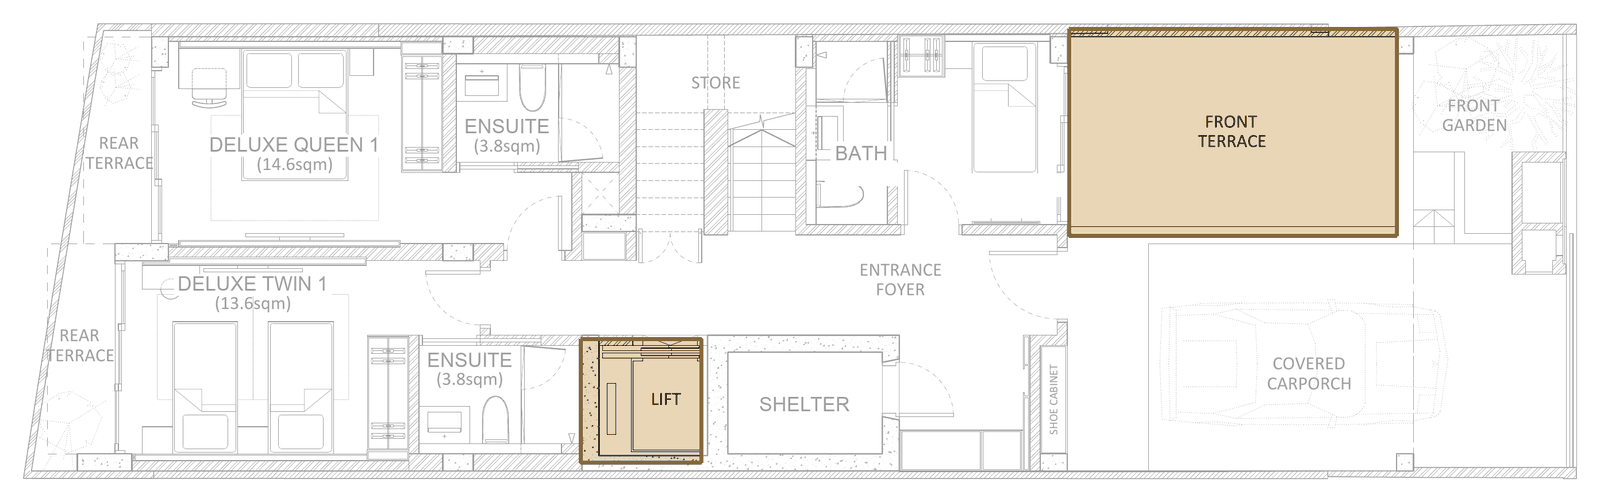
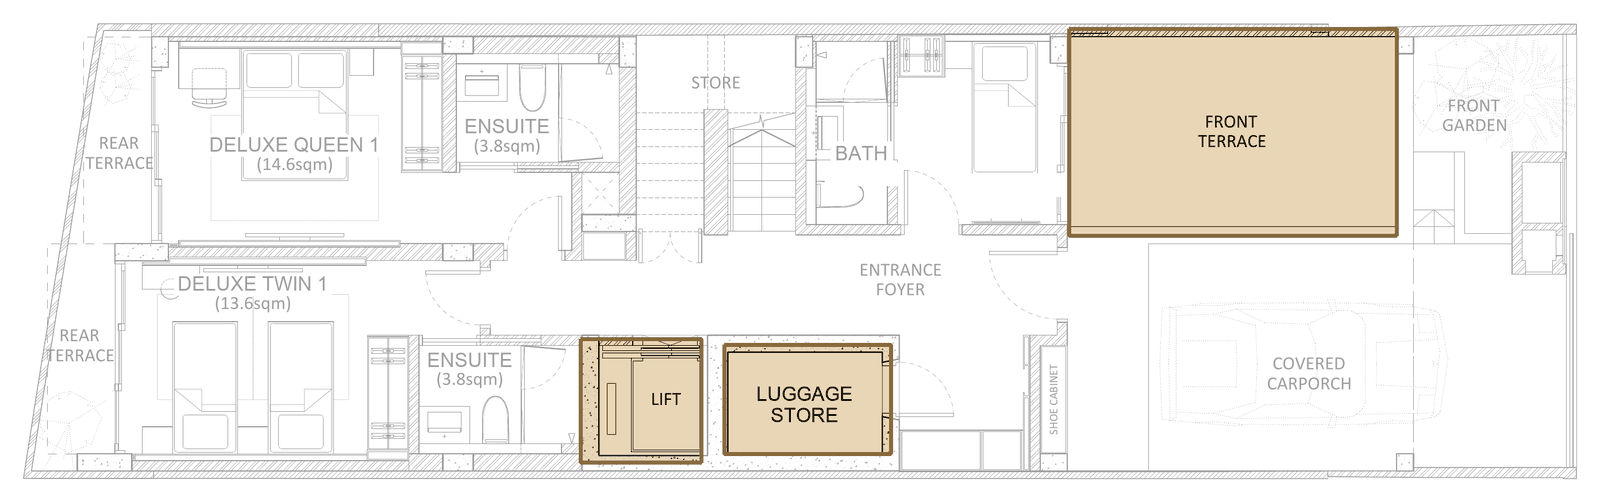
Floor plans: shelter is the luggage store, laundry labelled, floor 2 shown whole

Changed region(s): [[0.375, 0.6574, 0.5625, 0.9263], [0.6562, 0.0598, 0.875, 0.0896], [0.75, 0.239, 0.7812, 0.2988]]

diff --git a/ja/features.html b/ja/features.html
@@ -73,7 +73,7 @@
           <p class="lede">共用スペースをフロアごとにご紹介します。ホームエレベーターは全フロアに停まります。</p>
         </div>
         <div class="floorplans reveal" data-lightbox>
-          <figure><img src="../assets/img/plans/floor-1-shared.png" alt="1階 · フロントテラスとエレベーター" loading="lazy"><figcaption>1階 · フロントテラスとエレベーター</figcaption></figure>
+          <figure><img src="../assets/img/plans/floor-1-shared.png" alt="1階 · フロントテラス、荷物置き場、エレベーター" loading="lazy"><figcaption>1階 · フロントテラス、荷物置き場、エレベーター</figcaption></figure>
           <figure><img src="../assets/img/plans/floor-2-shared.png" alt="2階 · リビング、ダイニング、キッチン、オープンバルコニー" loading="lazy"><figcaption>2階 · リビング、ダイニング、キッチン、オープンバルコニー</figcaption></figure>
           <figure><img src="../assets/img/plans/floor-5-laundry.png" alt="5階 · ランドリーテラスとエレベーター" loading="lazy"><figcaption>5階 · ランドリーテラスとエレベーター</figcaption></figure>
         </div>

diff --git a/fr/features.html b/fr/features.html
@@ -73,7 +73,7 @@
           <p class="lede">Les espaces communs, étage par étage. L'ascenseur privatif dessert chaque étage.</p>
         </div>
         <div class="floorplans reveal" data-lightbox>
-          <figure><img src="../assets/img/plans/floor-1-shared.png" alt="1er étage · terrasse avant et ascenseur" loading="lazy"><figcaption>1er étage · terrasse avant et ascenseur</figcaption></figure>
+          <figure><img src="../assets/img/plans/floor-1-shared.png" alt="1er étage · terrasse avant, rangement des bagages et ascenseur" loading="lazy"><figcaption>1er étage · terrasse avant, rangement des bagages et ascenseur</figcaption></figure>
           <figure><img src="../assets/img/plans/floor-2-shared.png" alt="2e étage · salon, salle à manger, cuisine et balcon ouvert" loading="lazy"><figcaption>2e étage · salon, salle à manger, cuisine et balcon ouvert</figcaption></figure>
           <figure><img src="../assets/img/plans/floor-5-laundry.png" alt="5e étage · terrasse de buanderie et ascenseur" loading="lazy"><figcaption>5e étage · terrasse de buanderie et ascenseur</figcaption></figure>
         </div>

diff --git a/es/features.html b/es/features.html
@@ -73,7 +73,7 @@
           <p class="lede">Los espacios compartidos, planta por planta. El ascensor se detiene en todas las plantas.</p>
         </div>
         <div class="floorplans reveal" data-lightbox>
-          <figure><img src="../assets/img/plans/floor-1-shared.png" alt="Planta 1 · terraza delantera y ascensor" loading="lazy"><figcaption>Planta 1 · terraza delantera y ascensor</figcaption></figure>
+          <figure><img src="../assets/img/plans/floor-1-shared.png" alt="Planta 1 · terraza delantera, consigna de equipaje y ascensor" loading="lazy"><figcaption>Planta 1 · terraza delantera, consigna de equipaje y ascensor</figcaption></figure>
           <figure><img src="../assets/img/plans/floor-2-shared.png" alt="Planta 2 · salón, comedor, cocina y balcón abierto" loading="lazy"><figcaption>Planta 2 · salón, comedor, cocina y balcón abierto</figcaption></figure>
           <figure><img src="../assets/img/plans/floor-5-laundry.png" alt="Planta 5 · terraza de lavandería y ascensor" loading="lazy"><figcaption>Planta 5 · terraza de lavandería y ascensor</figcaption></figure>
         </div>

diff --git a/features.html b/features.html
@@ -72,7 +72,7 @@
           <p class="lede">The shared spaces, floor by floor. The home lift stops on every floor.</p>
         </div>
         <div class="floorplans reveal" data-lightbox>
-          <figure><img src="assets/img/plans/floor-1-shared.png" alt="1st floor · front terrace and lift" loading="lazy"><figcaption>1st floor · front terrace and lift</figcaption></figure>
+          <figure><img src="assets/img/plans/floor-1-shared.png" alt="1st floor · front terrace, luggage storeroom and lift" loading="lazy"><figcaption>1st floor · front terrace, luggage storeroom and lift</figcaption></figure>
           <figure><img src="assets/img/plans/floor-2-shared.png" alt="2nd floor · living, dining, kitchen and open balcony" loading="lazy"><figcaption>2nd floor · living, dining, kitchen and open balcony</figcaption></figure>
           <figure><img src="assets/img/plans/floor-5-laundry.png" alt="5th floor · laundry terrace and lift" loading="lazy"><figcaption>5th floor · laundry terrace and lift</figcaption></figure>
         </div>

diff --git a/zh/features.html b/zh/features.html
@@ -73,7 +73,7 @@
           <p class="lede">按楼层查看公共空间。家用电梯每层都停。</p>
         </div>
         <div class="floorplans reveal" data-lightbox>
-          <figure><img src="../assets/img/plans/floor-1-shared.png" alt="1 楼 · 前庭露台和电梯" loading="lazy"><figcaption>1 楼 · 前庭露台和电梯</figcaption></figure>
+          <figure><img src="../assets/img/plans/floor-1-shared.png" alt="1 楼 · 前庭露台、行李存放室和电梯" loading="lazy"><figcaption>1 楼 · 前庭露台、行李存放室和电梯</figcaption></figure>
           <figure><img src="../assets/img/plans/floor-2-shared.png" alt="2 楼 · 客厅、餐厅、厨房和开放式阳台" loading="lazy"><figcaption>2 楼 · 客厅、餐厅、厨房和开放式阳台</figcaption></figure>
           <figure><img src="../assets/img/plans/floor-5-laundry.png" alt="5 楼 · 洗衣露台和电梯" loading="lazy"><figcaption>5 楼 · 洗衣露台和电梯</figcaption></figure>
         </div>

diff --git a/tools/floor_plans.py b/tools/floor_plans.py
@@ -26,7 +26,7 @@ RELABEL = {
         ([box(769, 610, 866, 643)], ["ENSUITE"], None),
         ([box(1451, 250, 1547, 283), box(1441, 287, 1558, 319)], ["BATH"], None),
         ([box(1673, 306, 1839, 338), box(1698, 342, 1815, 375)], [], None),
-        ([box(1382, 688, 1418, 720)], ["SHELTER"], None),
+        ([box(1382, 688, 1418, 720)], ["LUGGAGE", "STORE"], (1400, 704)),
     ],
     2: [
         ([box(1069, 478, 1180, 511), box(1081, 513, 1167, 546)], ["FOYER"], (1124, 512)),
@@ -54,6 +54,7 @@ RELABEL = {
         ([box(618, 611, 715, 643)], ["ENSUITE"], None),
         ([box(323, 394, 398, 427), box(296, 429, 422, 461)], ["PRIVATE", "BALCONY"], (359, 428)),
                         ([box(1034, 473, 1110, 506), box(1028, 508, 1114, 541)], ["FOYER"], (1070, 507)),
+        ([box(1283, 575, 1381, 607)], ["LAUNDRY"], None),
     ],
 }
 
@@ -69,6 +70,7 @@ P = {
     "lift-1":     (1, [(1010, 590), (1220, 590), (1220, 805), (1010, 805)]),
     "lift-2":     (2, [(1000, 590), (1220, 590), (1220, 790), (1000, 790)]),
     "lift-5":     (5, [(920, 590), (1140, 590), (1140, 790), (920, 790)]),
+    "luggage":    (1, [(1260, 600), (1550, 600), (1550, 790), (1260, 790)]),
     "front-terr": (1, [(1860, 50), (2430, 50), (2430, 410), (1860, 410)]),
     "kitchen":    (2, [(170, 70), (1040, 70), (1040, 450), (730, 450), (730, 790), (170, 790)]),
     "living":     (2, [(1380, 70), (1810, 70), (1810, 790), (1380, 790)]),
@@ -85,8 +87,8 @@ JOBS = {  # output name: (floor, [polygons])
     "plan-deluxe-twin-1":  (1, ["dt-ground"]),
     "plan-deluxe-twin-3":  (3, ["dt-upper"]),
     "plan-deluxe-twin-4":  (4, ["dt-upper"]),
-    "floor-1-shared":      (1, ["front-terr", "lift-1"]),
-    "floor-2-shared":      (2, ["kitchen", "living", "balcony", "lift-2"]),
+    "floor-1-shared":      (1, ["front-terr", "luggage", "lift-1"]),
+    "floor-2-shared":      (2, []),  # the whole floor is shared: no highlight
     "floor-5-laundry":     (5, ["laundry", "lift-5"]),
 }
 
@@ -122,7 +124,7 @@ def render(name, floor, polys):
     md = ImageDraw.Draw(mask)
     for p in polys:
         md.polygon(P[p][1], fill=255)
-    out = Image.composite(tinted, faded, mask)
+    out = Image.composite(tinted, faded, mask) if polys else base
     od = ImageDraw.Draw(out)
     for p in polys:
         pts = P[p][1]
